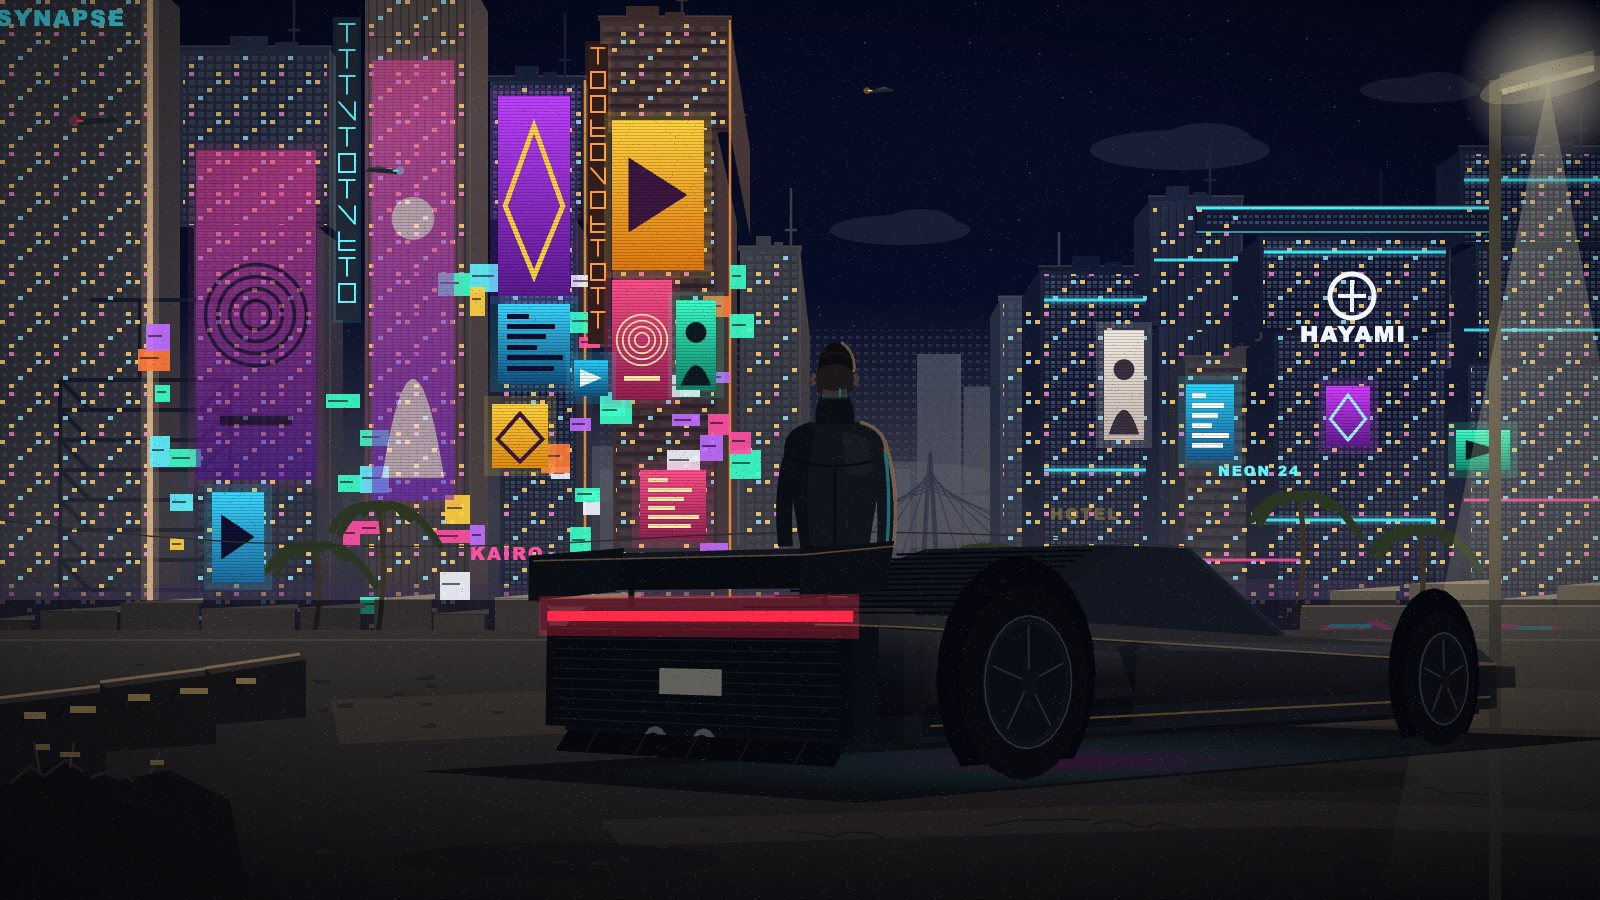
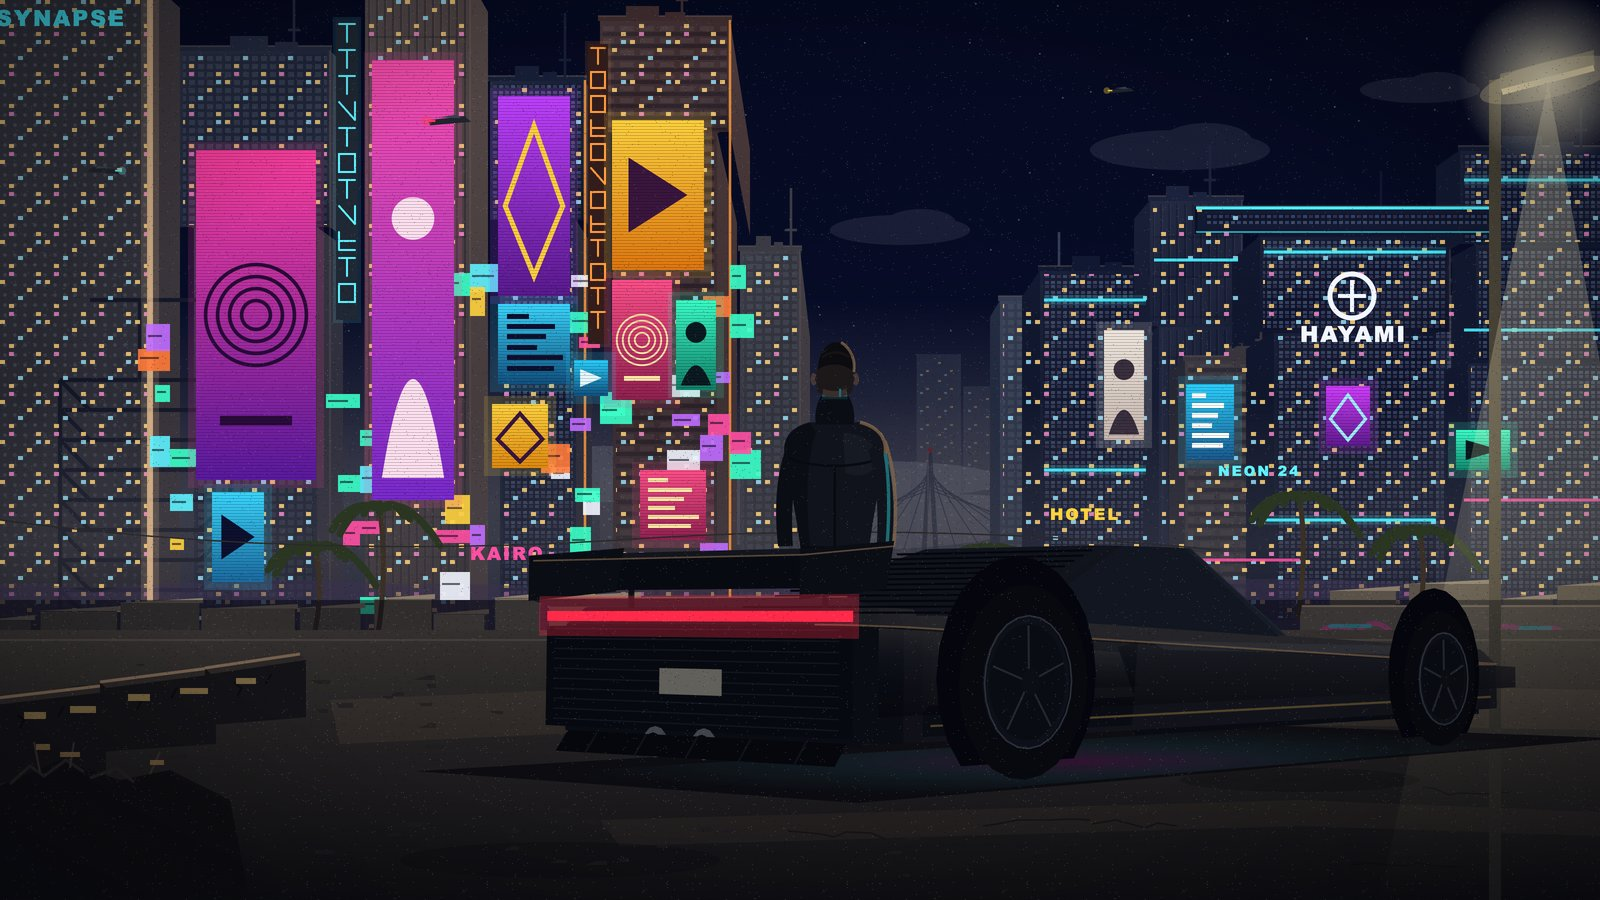
fix: light the distant towers at night
The far haze towers had no lit windows at night, so they showed as flat
grey blocks. They now go dark at night with a few dim windows. The day
window pattern now covers the towers only, not the sky between them.

diff --git a/plugins/cyberpunk-2077/hooks/scene.js b/plugins/cyberpunk-2077/hooks/scene.js
@@ -203,14 +203,22 @@ function city() {
   }
   // Far haze towers in the middle distance: pale silhouettes.
   let x = 600
+  let farD = ''
+  let farBody = ''
   while (x < 1180) {
     const w = 24 + rng() * 46
     const top = 330 + rng() * 180
     far.rect('#b2c2ce', x, top, w, 600 - top)
     far.rect('#d2dce4', x + w - 4, top, 4, 600 - top)
+    farBody += `M${n0(x)} ${n0(top)}h${n0(w)}V600h${n0(-w)}z`
+    farD += `M${n0(x + 3)} ${n0(top + 4)}h${n0(w - 6)}V600h${n0(-(w - 6))}z`
     x += w + 2 + rng() * 8
   }
-  const farPats = `<rect x="600" y="330" width="580" height="270" fill="url(#cp-win-far)" opacity="0.6"/>`
+  // The window pattern sits on the towers only, not on the sky between them.
+  const farPats = `<path d="${farD}" fill="url(#cp-win-far)" opacity="0.6"/>`
+  // By night the far towers go dark, with a few dim lit windows.
+  const farNight = `<path d="${farBody}" fill="#1a2440" opacity="0.75"/>` +
+    `<path d="${farD}" fill="url(#cp-win-farnight)"/>`
   // The right cluster, drawn from the vanishing point outward: back row, then front.
   for (const [bx, top, w, c, kind] of [[1000, 300, 70, '#7a8ca0', 'grid'], [1070, 330, 60, '#5a6e88', 'screens'], [1380, 300, 80, '#4a5a78', 'screens'], [1520, 280, 90, '#6a7890', 'bands']]) tower(bx, top, w, 610, 10, c, kind)
   for (const [bx, top, w, side, kind, tiers, c] of [[1040, 270, 110, 18, 'screens', [], '#22304a'], [1150, 200, 92, 16, 'ribs', [[0.3, 0.8]], '#3a4660'], [1185, 360, 115, 16, 'bands', [], '#8a7a6a'], [1260, 236, 190, 28, 'screens', [[0.25, 0.85]], '#1e2a44'], [1460, 150, 160, 24, 'screens', [[0.2, 0.8], [0.45, 0.9]], '#24324e']]) tower(bx, top, w, 620, side, c, kind, tiers)
@@ -234,6 +242,7 @@ function city() {
   scaffold += 'M60 380V610M230 380V610M140 380V300M90 300H260M250 300v40'
   return {
     far: far.svg() + farPats,
+    farNight,
     body: out,
     pats: '',
     frame: frame + `<path d="${scaffold}" stroke="#2a2f36" stroke-width="4" fill="none"/>`,
@@ -637,6 +646,7 @@ export function buildScene() {
     <pattern id="cp-win-cool" width="9" height="8" patternUnits="userSpaceOnUse"><rect width="5" height="4" fill="#cfe6f2" opacity="0.55"/></pattern>
     <pattern id="cp-win-warm" width="9" height="8" patternUnits="userSpaceOnUse"><rect width="5" height="4" fill="#3a2e28" opacity="0.6"/></pattern>
     <pattern id="cp-win-far" width="8" height="8" patternUnits="userSpaceOnUse"><rect width="4" height="3" fill="#dde8ee" opacity="0.6"/></pattern>
+    <pattern id="cp-win-farnight" width="24" height="18" patternUnits="userSpaceOnUse"><path d="M2 2h3v2h-3zM14 10h3v2h-3z" fill="#ffd27a"/><path d="M8 14h3v2h-3z" fill="#9fe8ff"/></pattern>
     <pattern id="cp-grid" width="9" height="8" patternUnits="userSpaceOnUse"><rect width="9" height="8" fill="#000" opacity="0.12"/><rect width="6" height="5" fill="#cfe6f2" opacity="0.32"/></pattern>
     <pattern id="cp-ribs" width="8" height="40" patternUnits="userSpaceOnUse"><rect width="2" height="40" fill="#000" opacity="0.28"/><rect x="2" width="1" height="40" fill="#fff" opacity="0.12"/><rect y="36" width="8" height="2" fill="#000" opacity="0.2"/></pattern>
     <pattern id="cp-bands" width="20" height="12" patternUnits="userSpaceOnUse"><rect y="8" width="20" height="4" fill="#000" opacity="0.3"/><rect y="2" width="14" height="5" fill="#ffe6c8" opacity="0.2"/></pattern>
@@ -651,6 +661,7 @@ export function buildScene() {
   </defs>
   ${sky()}
   <g opacity="0.8">${c.far}</g>
+  ${layer(NIGHT, c.farNight)}
   ${smog()}
   ${bridge()}
   ${c.body}
